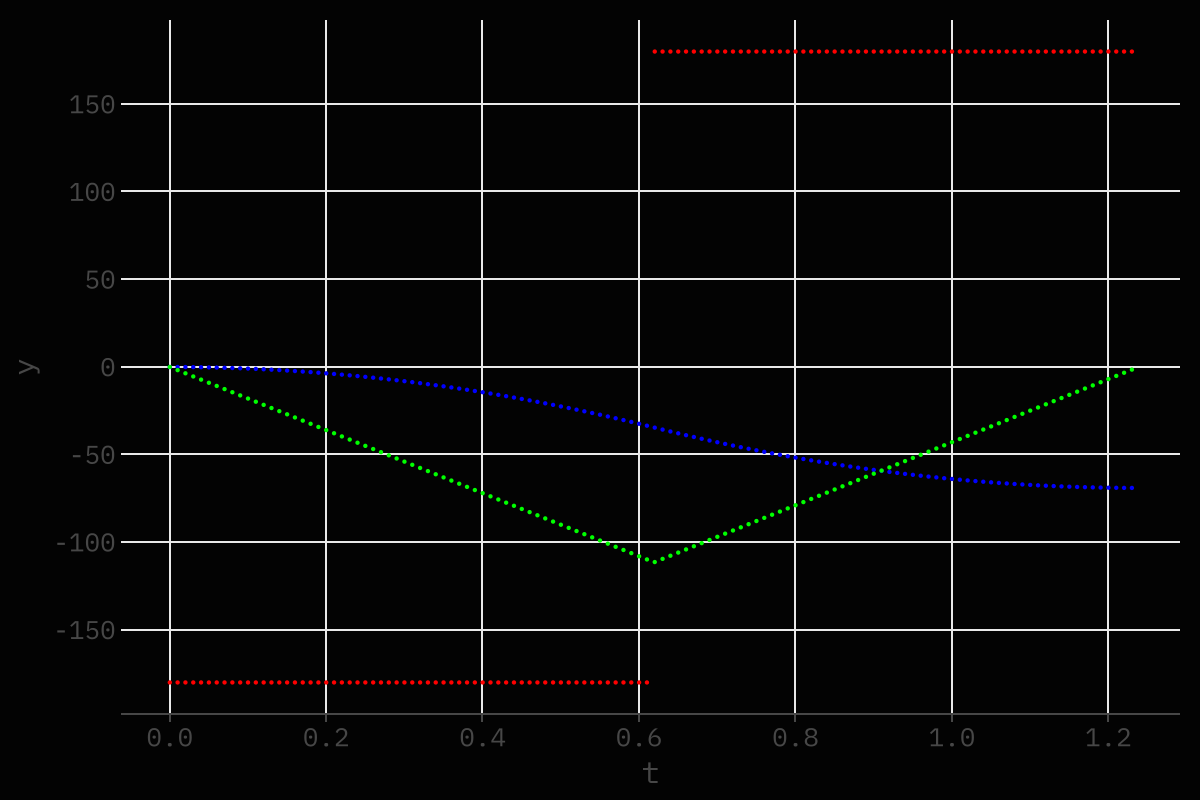
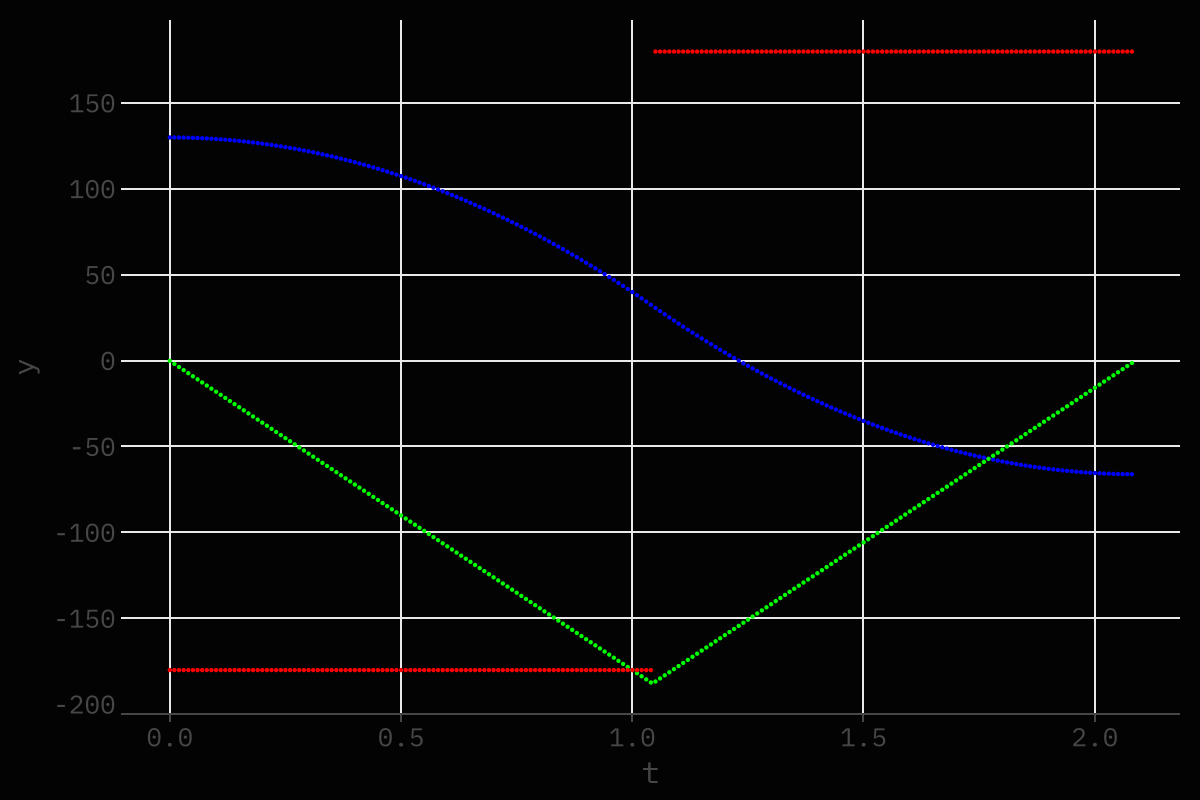
on god

diff --git a/core/src/main/kotlin/com/asiankoala/koawalib/control/profile/MPTest.kt b/core/src/main/kotlin/com/asiankoala/koawalib/control/profile/MPTest.kt
@@ -13,8 +13,8 @@ import jetbrains.letsPlot.theme
 internal object MPTest {
     @JvmStatic
     fun main(args: Array<String>) {
-        val start = MotionState(-69.0)
-        val end = MotionState(0.0)
+        val end = MotionState(-66.0)
+        val start = MotionState(130.0)
         val constraints = MotionConstraints(180.0, 180.0)
         val profile = MotionProfile.generateTrapezoidal(start, end, constraints)
 

diff --git a/core/src/main/kotlin/com/asiankoala/koawalib/control/profile/MotionProfile.kt b/core/src/main/kotlin/com/asiankoala/koawalib/control/profile/MotionProfile.kt
@@ -75,7 +75,7 @@ class MotionProfile(vararg _periods: MotionPeriod, reversed: Boolean) {
                 deccelPeriod = MotionPeriod(accelPeriod.endState.copy(a = -newA), dt)
             }
 
-            return MotionProfile(accelPeriod, cruisePeriod, deccelPeriod, reversed = true)
+            return MotionProfile(accelPeriod, cruisePeriod, deccelPeriod, reversed = isReversed)
         }
     }
 }
